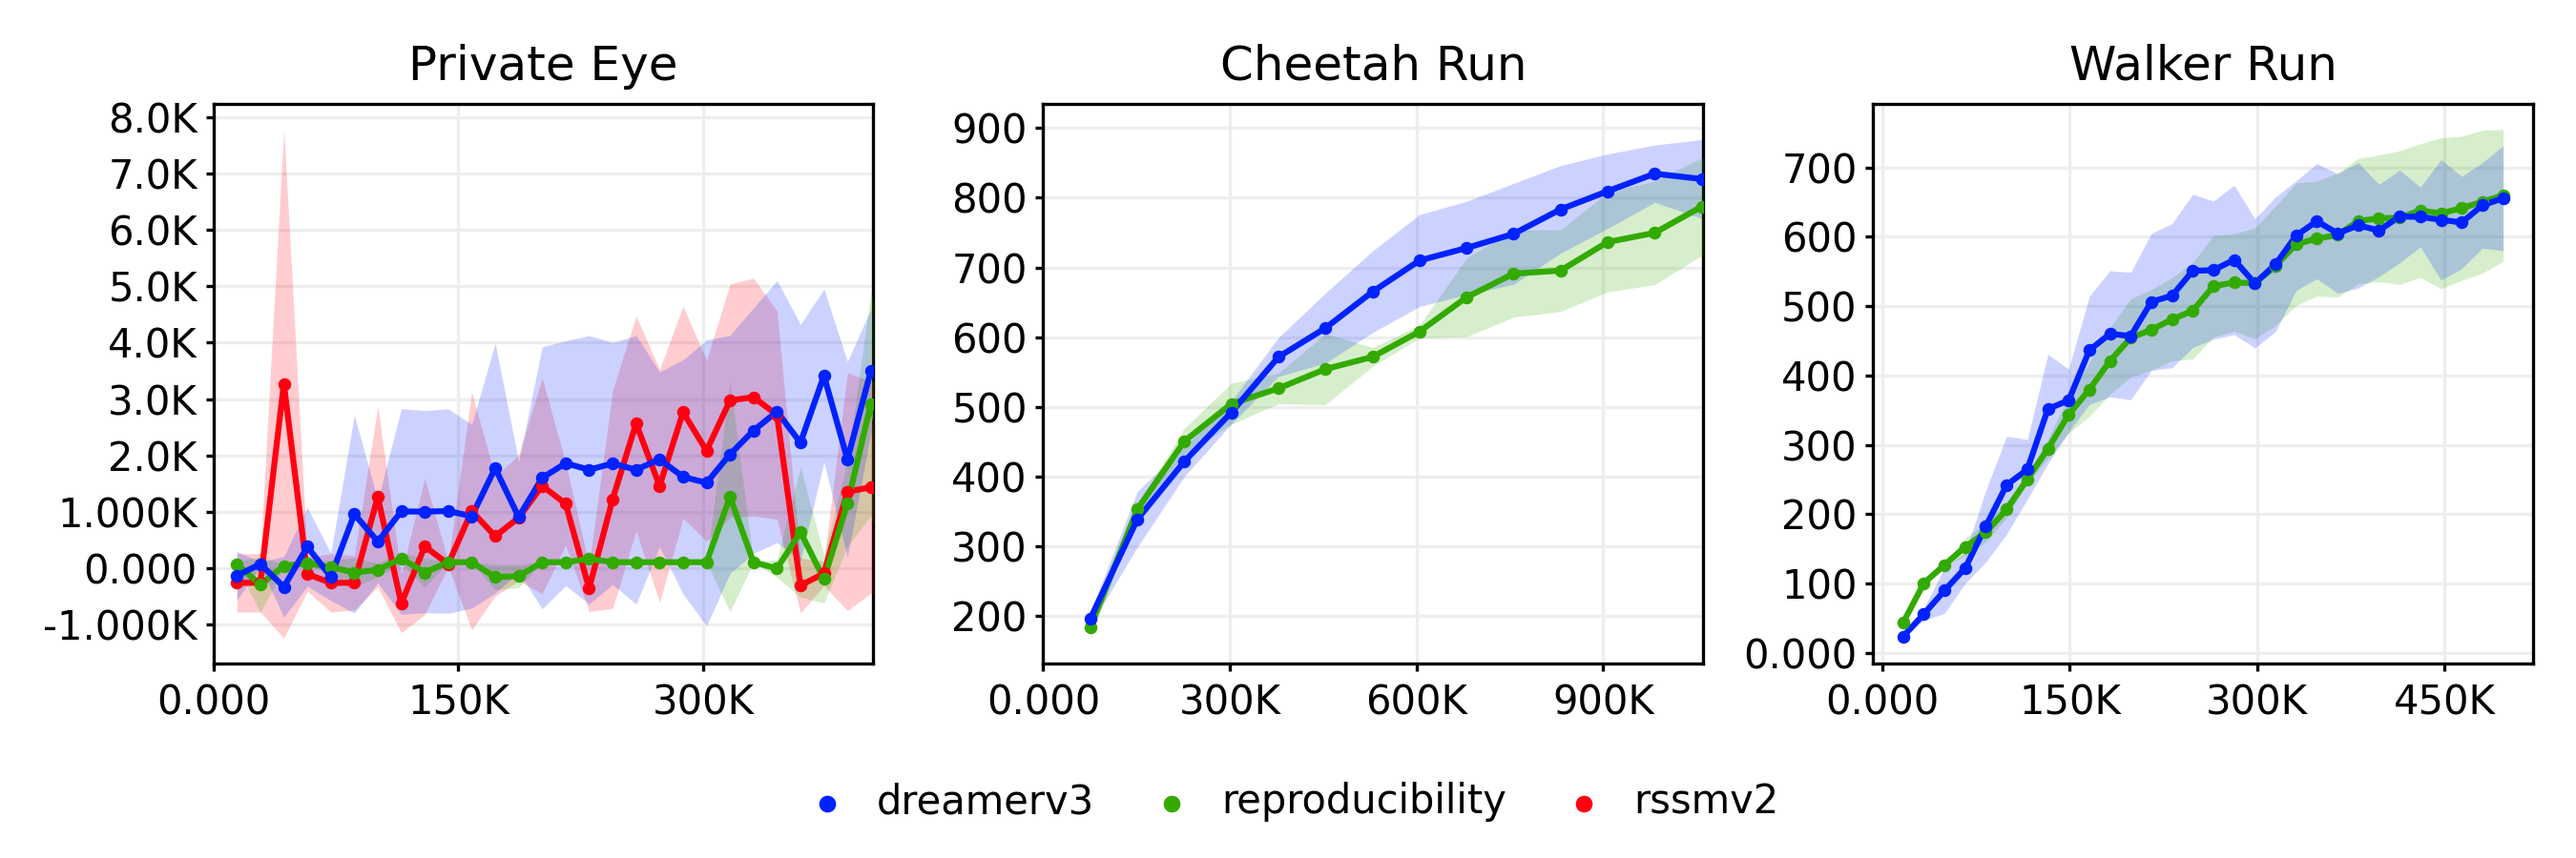
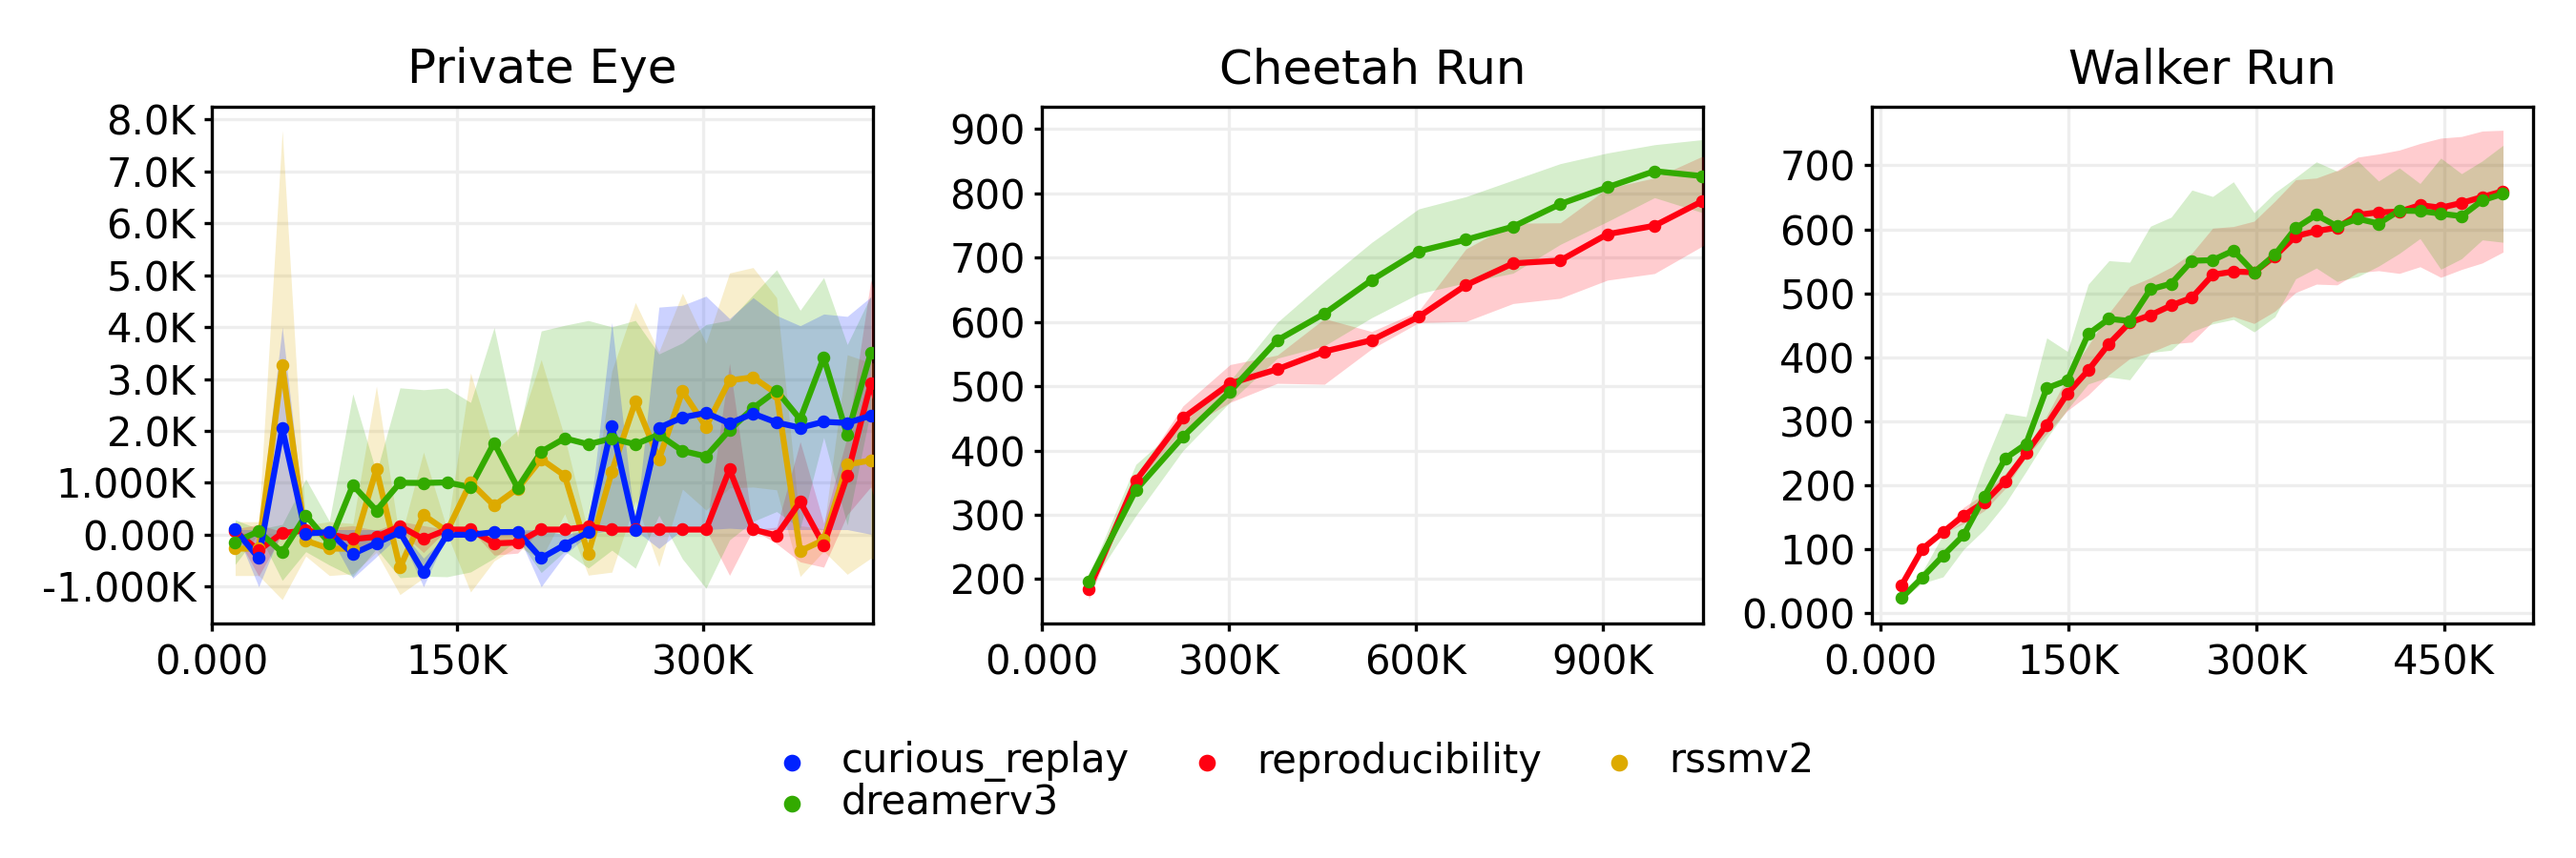
add curious plots

diff --git a/scripts/plot.py b/scripts/plot.py
@@ -414,7 +414,7 @@ if __name__ == '__main__':
       indirs=['../logdir/re-dreamerv3',
               '../logdir/original'],
       outdir='../logdir/',
-      methods='dreamer|rssmv2|reproducibility',
+      methods='dreamer|reproducibility|curious_replay',
       tasks='',
       newstyle=False,
       indir_prefix=False,
